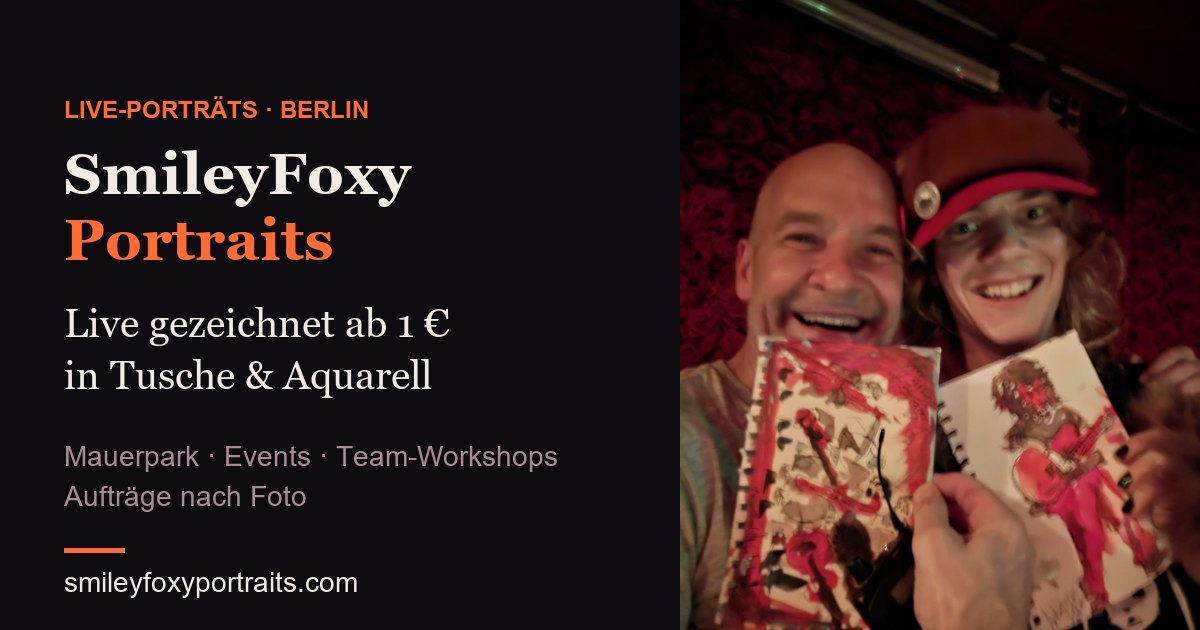
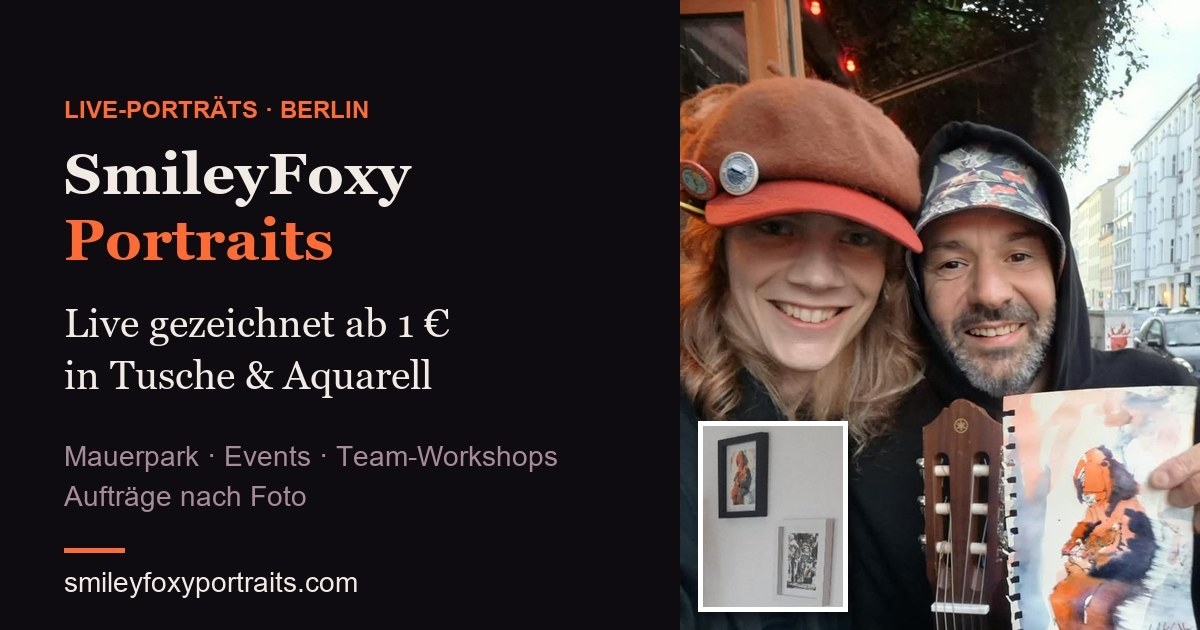
New link preview image: selfie with a customer holding his watercolour portrait + his wall with the framed watercolour and ink portraits (og-share.jpg, ?v=2 so WhatsApp/Instagram refresh)

diff --git a/referenzen/index.html b/referenzen/index.html
@@ -30,7 +30,7 @@
 	<meta property="og:url" content="https://smileyfoxyportraits.com/referenzen/">
 	<meta property="og:title" content="Referenzen: Ausstellung, Events & Porträt-Serien | SmileyFoxyPortraits">
 	<meta property="og:description" content="Referenzen von Aydan Lig'on (SmileyFoxyPortraits): Gruppenausstellung, drei Tage Live-Porträts beim Saunasplash-Festival und Mitarbeiter-Porträts als Kunst-Leistungskurs-Projekt – mit Infoblättern zum Download.">
-	<meta property="og:image" content="https://smileyfoxyportraits.com/img/og-share.jpg">
+	<meta property="og:image" content="https://smileyfoxyportraits.com/img/og-share.jpg?v=2">
 	<meta property="og:image:width" content="1200">
 	<meta property="og:image:height" content="630">
 	<meta property="og:image:alt" content="SmileyFoxyPortraits – Live-Porträts ab 1 € in Berlin">

diff --git a/en/referenzen/index.html b/en/referenzen/index.html
@@ -31,7 +31,7 @@
 	<meta property="og:url" content="https://smileyfoxyportraits.com/en/referenzen/">
 	<meta property="og:title" content="References: Events & Portrait Series | SmileyFoxyPortraits">
 	<meta property="og:description" content="References of Aydan Lig'on (SmileyFoxyPortraits): three days of live portraits at the Saunasplash Festival and staff portraits as an advanced-art-class project.">
-	<meta property="og:image" content="https://smileyfoxyportraits.com/img/og-share.jpg">
+	<meta property="og:image" content="https://smileyfoxyportraits.com/img/og-share.jpg?v=2">
 	<meta property="og:image:width" content="1200">
 	<meta property="og:image:height" content="630">
 	<meta property="og:image:alt" content="SmileyFoxyPortraits – live portraits from €1 in Berlin">

diff --git a/labor/edition.html b/labor/edition.html
@@ -26,7 +26,7 @@
 	<meta property="og:url" content="https://smileyfoxyportraits.com/labor/edition.html">
 	<meta property="og:title" content="Druck-Edition: limitiert & offen | SmileyFoxyPortraits">
 	<meta property="og:description" content="Kunstdruck von Aydan Lig’on: limitierte Edition (30 Stück, nummeriert & signiert) oder offene Edition – die ersten 10 Bestellungen mit Mini-Porträt gratis.">
-	<meta property="og:image" content="https://smileyfoxyportraits.com/img/og-share.jpg">
+	<meta property="og:image" content="https://smileyfoxyportraits.com/img/og-share.jpg?v=2">
 	<meta property="og:image:width" content="1200">
 	<meta property="og:image:height" content="630">
 	<meta property="og:image:alt" content="SmileyFoxyPortraits – Live-Porträts ab 1 € in Berlin">

diff --git a/thankyou/index.html b/thankyou/index.html
@@ -26,7 +26,7 @@
 	<meta property="og:url" content="https://smileyfoxyportraits.com/thankyou/">
 	<meta property="og:title" content="Dankbarkeitswand & Kundenbewertungen | SmileyFoxyPortraits">
 	<meta property="og:description" content="Danke an alle Unterstützer:innen von Aydan Lig’on und SmileyFoxyPortraits – Dankbarkeitswand, Tusche-&-Aquarell-Minispiel und Bewertungen.">
-	<meta property="og:image" content="https://smileyfoxyportraits.com/img/og-share.jpg">
+	<meta property="og:image" content="https://smileyfoxyportraits.com/img/og-share.jpg?v=2">
 	<meta property="og:image:width" content="1200">
 	<meta property="og:image:height" content="630">
 	<meta property="og:image:alt" content="SmileyFoxyPortraits – Live-Porträts ab 1 € in Berlin">

diff --git a/ImpressumUndDatenschutz/Datenschutz.html b/ImpressumUndDatenschutz/Datenschutz.html
@@ -26,7 +26,7 @@
 	<meta property="og:url" content="https://smileyfoxyportraits.com/ImpressumUndDatenschutz/Datenschutz.html">
 	<meta property="og:title" content="Datenschutzerklärung | SmileyFoxyPortraits – Aydan Lig'on">
 	<meta property="og:description" content="Datenschutzerklärung von SmileyFoxyPortraits – Aydan Lig'on und den zugehörigen Online-Diensten.">
-	<meta property="og:image" content="https://smileyfoxyportraits.com/img/og-share.jpg">
+	<meta property="og:image" content="https://smileyfoxyportraits.com/img/og-share.jpg?v=2">
 	<meta property="og:image:width" content="1200">
 	<meta property="og:image:height" content="630">
 	<meta property="og:image:alt" content="SmileyFoxyPortraits – Live-Porträts ab 1 € in Berlin">

diff --git a/projects/index.html b/projects/index.html
@@ -26,7 +26,7 @@
 	<meta property="og:url" content="https://smileyfoxyportraits.com/projects/">
 	<meta property="og:title" content="Projekte von Aydan Lig'on – Kunst, Spiele & Musik | SmileyFoxyPortraits">
 	<meta property="og:description" content="Alle Projekte von Aydan Lig'on (SmileyFoxyPortraits) seit 2020: Porträts, Spiele, Animationen, Musik und Experimente.">
-	<meta property="og:image" content="https://smileyfoxyportraits.com/img/og-share.jpg">
+	<meta property="og:image" content="https://smileyfoxyportraits.com/img/og-share.jpg?v=2">
 	<meta property="og:image:width" content="1200">
 	<meta property="og:image:height" content="630">
 	<meta property="og:image:alt" content="SmileyFoxyPortraits – Live-Porträts ab 1 € in Berlin">

diff --git a/about/index.html b/about/index.html
@@ -29,7 +29,7 @@
 	<meta property="og:url" content="https://smileyfoxyportraits.com/about/">
 	<meta property="og:title" content="Über mich – Aydan Lig'on | SmileyFoxyPortraits">
 	<meta property="og:description" content="Wer hinter SmileyFoxyPortraits steckt: Aydan Lig'on, Porträtkünstler:in aus Berlin – Geschichte, Ziele, Werte sowie Fragen und Antworten.">
-	<meta property="og:image" content="https://smileyfoxyportraits.com/img/og-share.jpg">
+	<meta property="og:image" content="https://smileyfoxyportraits.com/img/og-share.jpg?v=2">
 	<meta property="og:image:width" content="1200">
 	<meta property="og:image:height" content="630">
 	<meta property="og:image:alt" content="SmileyFoxyPortraits – Live-Porträts ab 1 € in Berlin">

diff --git a/en/contact/index.html b/en/contact/index.html
@@ -29,7 +29,7 @@
 	<meta property="og:url" content="https://smileyfoxyportraits.com/en/contact/">
 	<meta property="og:title" content="Contact | SmileyFoxyPortraits – Aydan Lig’on">
 	<meta property="og:description" content="Contact Aydan Lig’on (SmileyFoxyPortraits): event and workshop enquiries, portrait commissions, collaborations and removal requests.">
-	<meta property="og:image" content="https://smileyfoxyportraits.com/img/og-share.jpg">
+	<meta property="og:image" content="https://smileyfoxyportraits.com/img/og-share.jpg?v=2">
 	<meta property="og:image:width" content="1200">
 	<meta property="og:image:height" content="630">
 	<meta property="og:image:alt" content="SmileyFoxyPortraits – live portraits from €1 in Berlin">

diff --git a/contact/index.html b/contact/index.html
@@ -28,7 +28,7 @@
 	<meta property="og:url" content="https://smileyfoxyportraits.com/contact/">
 	<meta property="og:title" content="Kontakt | SmileyFoxyPortraits – Aydan Lig’on">
 	<meta property="og:description" content="Kontakt zu Aydan Lig’on (SmileyFoxyPortraits): Event- und Workshop-Anfragen, Porträt-Aufträge, Kooperationen und Löschanfragen.">
-	<meta property="og:image" content="https://smileyfoxyportraits.com/img/og-share.jpg">
+	<meta property="og:image" content="https://smileyfoxyportraits.com/img/og-share.jpg?v=2">
 	<meta property="og:image:width" content="1200">
 	<meta property="og:image:height" content="630">
 	<meta property="og:image:alt" content="SmileyFoxyPortraits – Live-Porträts ab 1 € in Berlin">

diff --git a/en/about/index.html b/en/about/index.html
@@ -31,7 +31,7 @@
 	<meta property="og:url" content="https://smileyfoxyportraits.com/en/about/">
 	<meta property="og:title" content="About me – Aydan Lig'on | SmileyFoxyPortraits">
 	<meta property="og:description" content="Who's behind SmileyFoxyPortraits: Aydan Lig'on, portrait artist from Berlin – story, goals, values, plus questions and answers.">
-	<meta property="og:image" content="https://smileyfoxyportraits.com/img/og-share.jpg">
+	<meta property="og:image" content="https://smileyfoxyportraits.com/img/og-share.jpg?v=2">
 	<meta property="og:image:width" content="1200">
 	<meta property="og:image:height" content="630">
 	<meta property="og:image:alt" content="SmileyFoxyPortraits – live portraits from €1 in Berlin">

diff --git a/ImpressumUndDatenschutz/Impressum.html b/ImpressumUndDatenschutz/Impressum.html
@@ -26,7 +26,7 @@
 	<meta property="og:url" content="https://smileyfoxyportraits.com/ImpressumUndDatenschutz/Impressum.html">
 	<meta property="og:title" content="Impressum | SmileyFoxyPortraits – Aydan Lig'on">
 	<meta property="og:description" content="Impressum (rechtliche Angaben) von SmileyFoxyPortraits – Aydan Lig'on, Live-Porträts in Berlin.">
-	<meta property="og:image" content="https://smileyfoxyportraits.com/img/og-share.jpg">
+	<meta property="og:image" content="https://smileyfoxyportraits.com/img/og-share.jpg?v=2">
 	<meta property="og:image:width" content="1200">
 	<meta property="og:image:height" content="630">
 	<meta property="og:image:alt" content="SmileyFoxyPortraits – Live-Porträts ab 1 € in Berlin">

diff --git a/support-free/index.html b/support-free/index.html
@@ -26,7 +26,7 @@
 	<meta property="og:url" content="https://smileyfoxyportraits.com/support-free/">
 	<meta property="og:title" content="Kostenlos unterstützen | SmileyFoxyPortraits">
 	<meta property="og:description" content="So kannst du Aydan Lig'on und SmileyFoxyPortraits ohne Geld unterstützen – plus Ideen- und Ratschlag-Board.">
-	<meta property="og:image" content="https://smileyfoxyportraits.com/img/og-share.jpg">
+	<meta property="og:image" content="https://smileyfoxyportraits.com/img/og-share.jpg?v=2">
 	<meta property="og:image:width" content="1200">
 	<meta property="og:image:height" content="630">
 	<meta property="og:image:alt" content="SmileyFoxyPortraits – Live-Porträts ab 1 € in Berlin">
